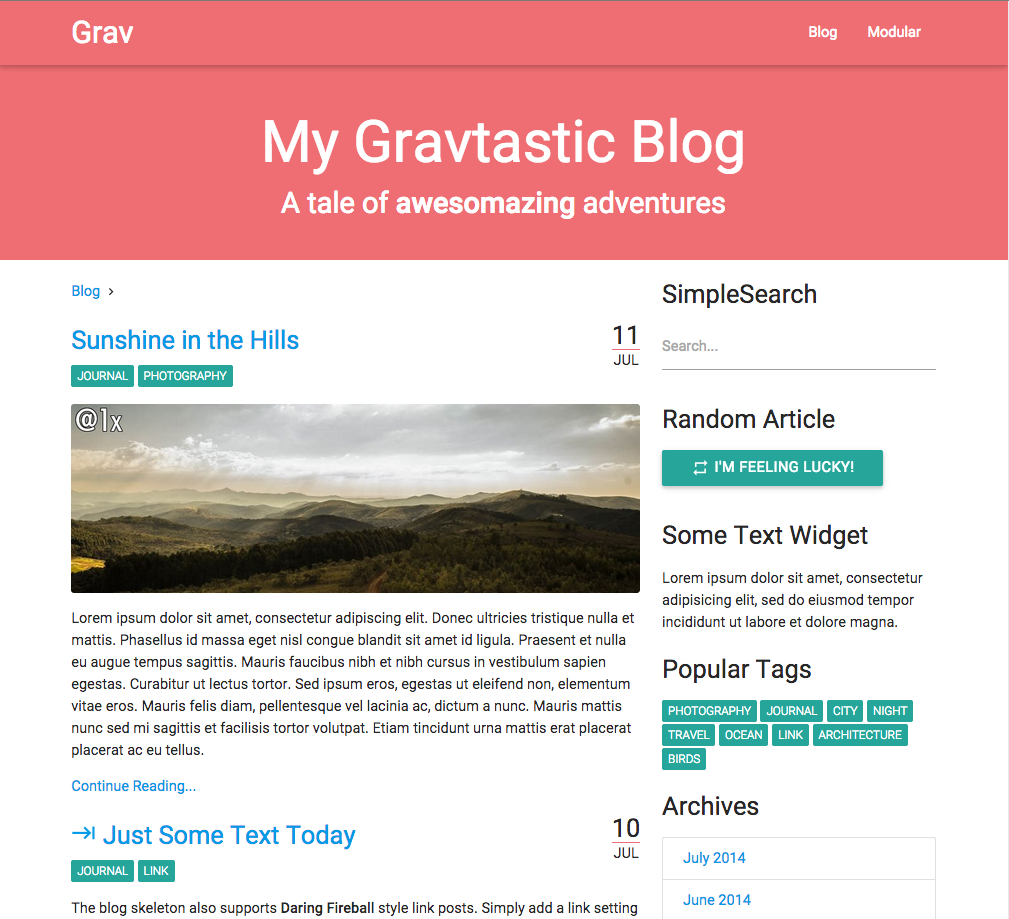
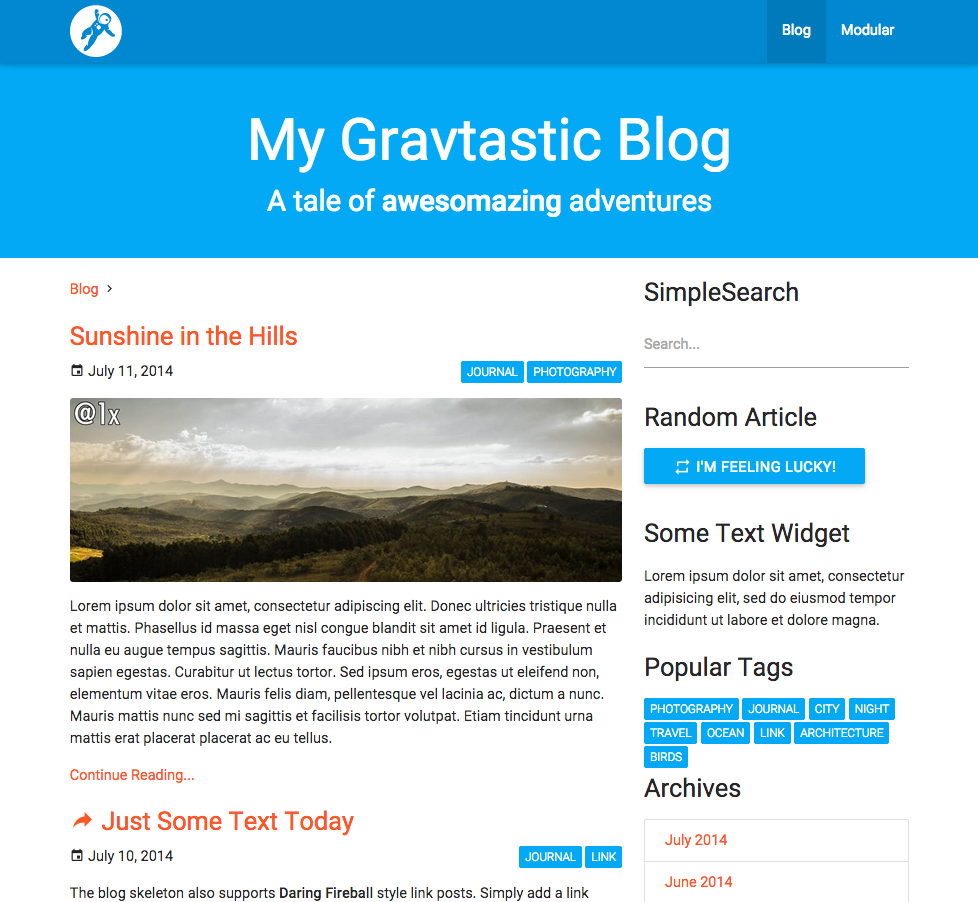
Updated screenshot and thumbnail
Deleted the old assets/readme.png
New screenshot and thumbnail to match revisions.

diff --git a/README.md b/README.md
@@ -1,6 +1,6 @@
 # Materialize
 
-![Materialize](assets/readme_1.png)
+![Materialize](screenshot.jpg)
 
 Materialize is a [Grav](http://github.com/getgrav/grav) theme that is based on the [Materialize framework](http://materializecss.com).
 
